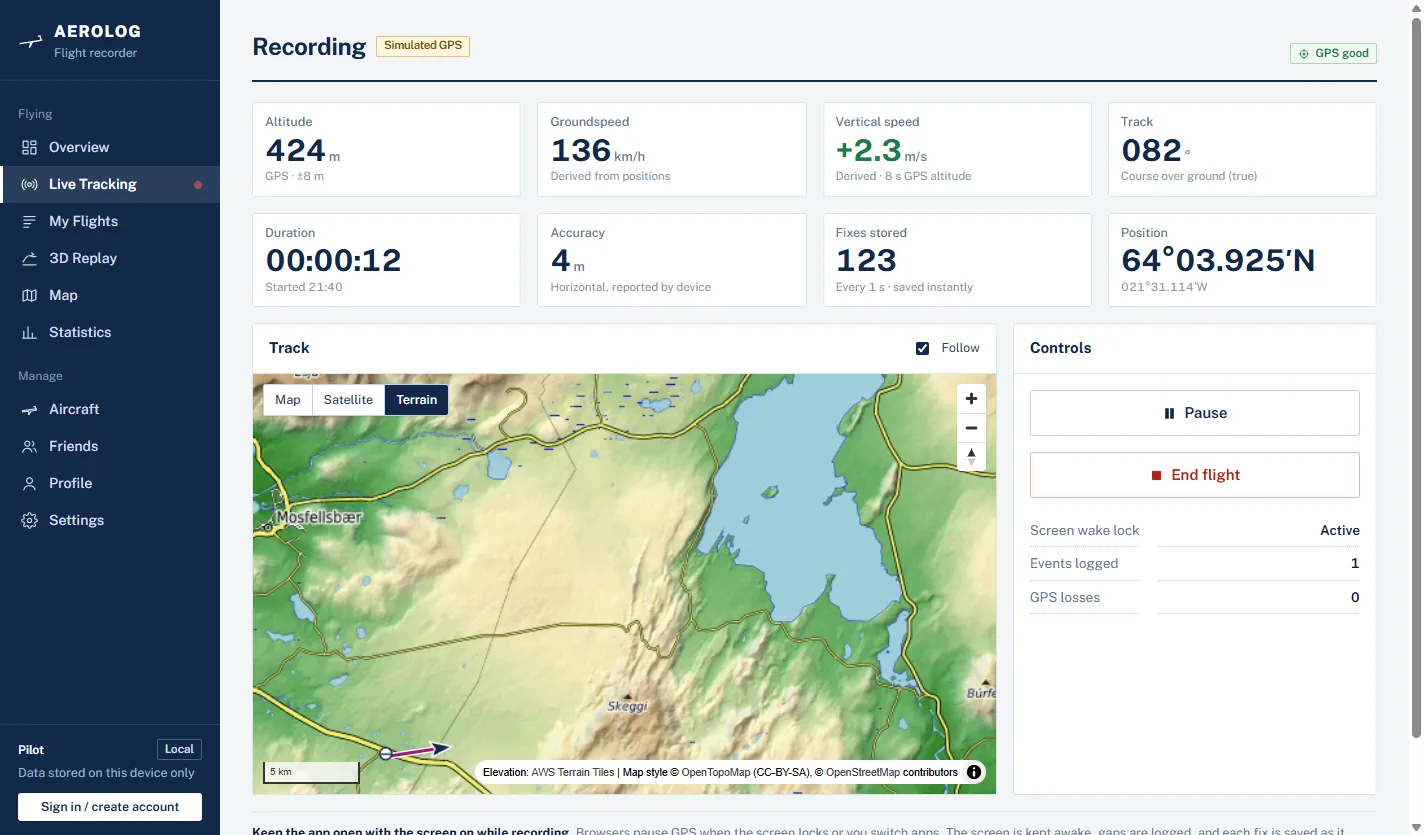
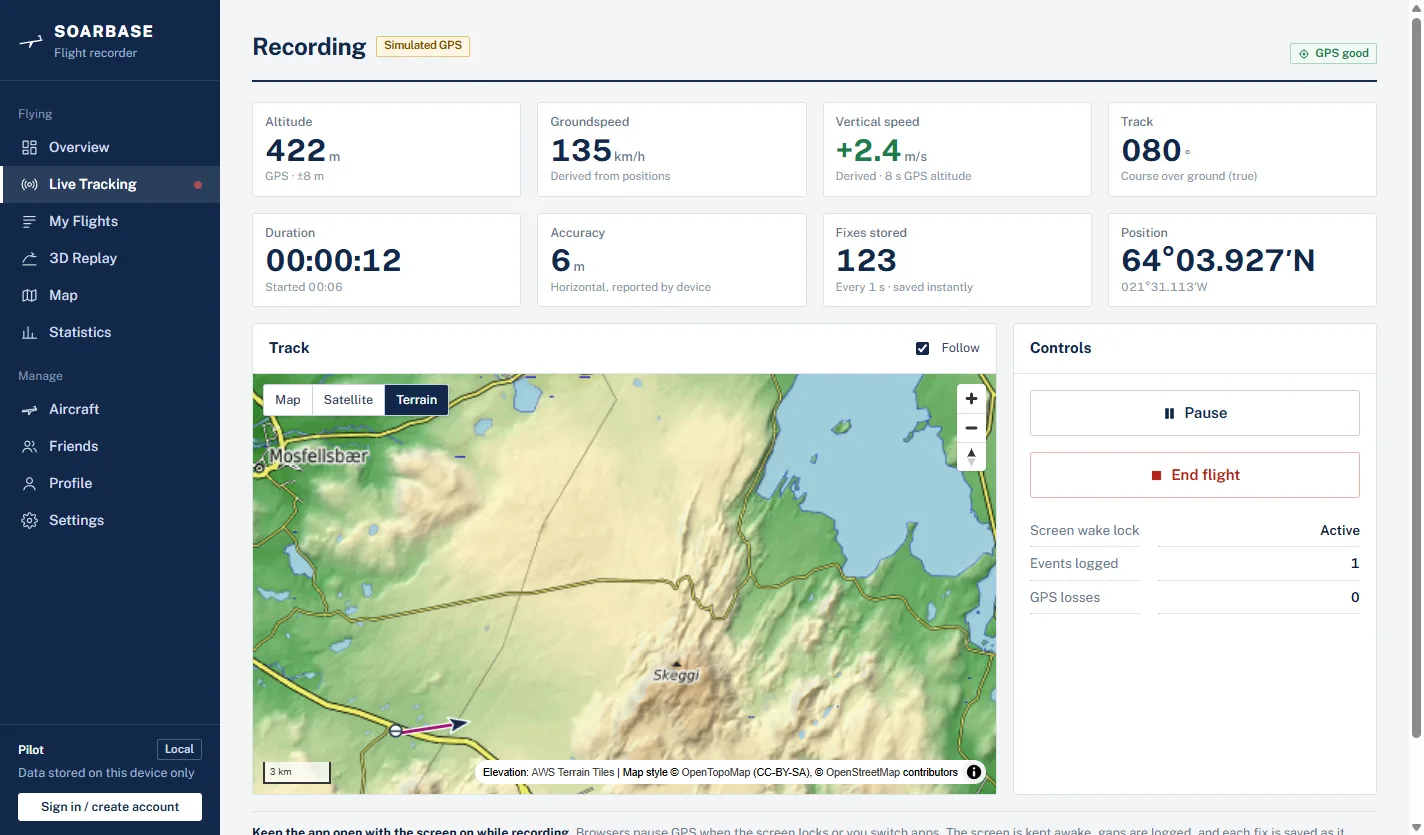
Rename to Soarbase
New name, screenshots, version 0.3.0 and download links.

diff --git a/index.html b/index.html
@@ -4,10 +4,10 @@
   <meta charset="utf-8" />
   <meta name="viewport" content="width=device-width, initial-scale=1, viewport-fit=cover" />
   <meta name="format-detection" content="telephone=no" />
-  <meta name="apple-mobile-web-app-title" content="AEROLOG" />
+  <meta name="apple-mobile-web-app-title" content="Soarbase" />
   <link rel="apple-touch-icon" href="img/icon-180.png" />
-  <title>AEROLOG — flight logbook and 3D replay for glider pilots</title>
-  <meta name="description" content="AEROLOG is a free Windows flight logbook for glider and light-aircraft pilots: import IGC files, analyse thermals and wind, replay flights in 3D over real terrain, and share flights with friends." />
+  <title>Soarbase — flight logbook and 3D replay for glider pilots</title>
+  <meta name="description" content="Soarbase is a free Windows flight logbook for glider and light-aircraft pilots: import IGC files, analyse thermals and wind, replay flights in 3D over real terrain, and share flights with friends." />
   <meta name="theme-color" content="#12284a" />
   <link rel="icon" type="image/png" href="img/icon-64.png" />
   <link rel="preconnect" href="https://fonts.googleapis.com" />
@@ -20,7 +20,7 @@
     <div class="wrap top-row">
       <a class="brand" href="#">
         <svg viewBox="0 0 32 32" aria-hidden="true"><path d="M2 18.5 30 14v1.6l-11.5 2.1-3.4 6.6h-1.7l1.3-6.3L2 20.1z" fill="currentColor"/><path d="M24.5 10.2 27 9.6l1.2 5" stroke="currentColor" stroke-width="1.4" fill="none"/></svg>
-        AEROLOG
+        SOARBASE
       </a>
       <nav aria-label="Main" id="nav">
         <a href="#replay">3D replay</a>
@@ -29,7 +29,7 @@
         <a href="#pricing">Pricing</a>
         <a href="#faq">FAQ</a>
       </nav>
-      <a class="btn btn-light dl top-dl" href="https://github.com/Kmzztt/aerolog/releases/latest/download/AEROLOG-Windows-portable.exe" download>Get AEROLOG</a>
+      <a class="btn btn-light dl top-dl" href="https://github.com/Kmzztt/soarbase/releases/latest/download/Soarbase-Windows-portable.exe" download>Get Soarbase</a>
       <button class="menu-btn" type="button" aria-label="Menu" aria-expanded="false" aria-controls="nav">
         <svg viewBox="0 0 24 24" aria-hidden="true"><path d="M4 7h16M4 12h16M4 17h16" stroke="currentColor" stroke-width="2" stroke-linecap="round"/></svg>
       </button>
@@ -48,19 +48,19 @@
             the whole flight over real terrain. Then share it with the pilots you fly with.
           </p>
           <div class="cta">
-            <a class="btn btn-primary btn-lg dl" href="https://github.com/Kmzztt/aerolog/releases/latest/download/AEROLOG-Windows-portable.exe" download>
+            <a class="btn btn-primary btn-lg dl" href="https://github.com/Kmzztt/soarbase/releases/latest/download/Soarbase-Windows-portable.exe" download>
               <svg viewBox="0 0 24 24" aria-hidden="true"><path d="M12 4v12M7 11l5 5 5-5M4 20h16" fill="none" stroke="currentColor" stroke-width="2" stroke-linecap="round" stroke-linejoin="round"/></svg>
               <span class="dl-label">Download for Windows</span>
             </a>
-            <p class="cta-meta">Free · Version 0.2.1 · 80 MB · Windows 10 and 11 (64-bit) · No installation needed</p>
+            <p class="cta-meta">Free · Version 0.3.0 · 80 MB · Windows 10 and 11 (64-bit) · No installation needed</p>
             <p class="phone-note" hidden>
-              You're on a phone. AEROLOG runs on Windows PCs for now, so send yourself the link and download it on your computer.
+              You're on a phone. Soarbase runs on Windows PCs for now, so send yourself the link and download it on your computer.
               The phone app for recording flights is coming next.
             </p>
           </div>
         </div>
         <figure class="shot shot-hero">
-          <img src="img/replay.webp" width="1424" height="835" alt="AEROLOG 3D replay: a glider circling in a thermal over Icelandic terrain, with altitude, vario and wind instruments and synchronised charts." />
+          <img src="img/replay.webp" width="1424" height="835" alt="Soarbase 3D replay: a glider circling in a thermal over Icelandic terrain, with altitude, vario and wind instruments and synchronised charts." />
         </figure>
       </div>
       <div class="wrap facts">
@@ -167,7 +167,7 @@
           </ol>
           <p class="note">Every flight is private until you share it. Friends can view your shared flights but never edit or delete them, and nobody can find you in pilot search unless you turn that on.</p>
         </div>
-        <figure class="shot"><img src="img/overview.webp" loading="lazy" width="1424" height="835" alt="AEROLOG overview with totals, the latest flight on a map and recent flights." /></figure>
+        <figure class="shot"><img src="img/overview.webp" loading="lazy" width="1424" height="835" alt="Soarbase overview with totals, the latest flight on a map and recent flights." /></figure>
       </div>
     </section>
 
@@ -190,7 +190,7 @@
         <div class="head">
           <p class="kicker">Pricing</p>
           <h2>Free to fly. Premium when you want more.</h2>
-          <p>Everything AEROLOG does today is free, and it stays free. Premium adds features for pilots who fly a lot, fly together, or fly competitively.</p>
+          <p>Everything Soarbase does today is free, and it stays free. Premium adds features for pilots who fly a lot, fly together, or fly competitively.</p>
         </div>
         <div class="plans">
           <article class="plan">
@@ -208,7 +208,7 @@
               <li>Account, friends and flight sharing</li>
               <li>Live recording with GPS</li>
             </ul>
-            <a class="btn btn-primary btn-block dl" href="https://github.com/Kmzztt/aerolog/releases/latest/download/AEROLOG-Windows-portable.exe" download><span class="dl-label">Download for Windows</span></a>
+            <a class="btn btn-primary btn-block dl" href="https://github.com/Kmzztt/soarbase/releases/latest/download/Soarbase-Windows-portable.exe" download><span class="dl-label">Download for Windows</span></a>
           </article>
 
           <article class="plan plan-premium">
@@ -249,7 +249,7 @@
           <h2>Good to know</h2>
         </div>
         <details open>
-          <summary>Is AEROLOG free?</summary>
+          <summary>Is Soarbase free?</summary>
           <p>Yes. Everything in the app today is free, including the account, friends and sharing. Premium will add extra features on top; nothing you use now will move behind it.</p>
         </details>
         <details>
@@ -262,7 +262,7 @@
         </details>
         <details>
           <summary>Windows says “Windows protected your PC”. Is that normal?</summary>
-          <p>Yes. AEROLOG isn't code-signed yet, so Windows SmartScreen warns about it the first time. Click <strong>More info</strong>, then <strong>Run anyway</strong>.</p>
+          <p>Yes. Soarbase isn't code-signed yet, so Windows SmartScreen warns about it the first time. Click <strong>More info</strong>, then <strong>Run anyway</strong>.</p>
         </details>
         <details>
           <summary>Do I need to install anything?</summary>
@@ -278,11 +278,11 @@
         </details>
         <details>
           <summary>Can I use it for badges, records or competitions?</summary>
-          <p>No. AEROLOG is a personal logbook and analysis tool, not a certified instrument or IGC-approved flight recorder. It can read your approved logger's IGC files, but files it records itself are marked as unapproved.</p>
+          <p>No. Soarbase is a personal logbook and analysis tool, not a certified instrument or IGC-approved flight recorder. It can read your approved logger's IGC files, but files it records itself are marked as unapproved.</p>
         </details>
         <details>
           <summary>What about Mac?</summary>
-          <p>AEROLOG currently runs on Windows only.</p>
+          <p>Soarbase currently runs on Windows only.</p>
         </details>
       </div>
     </section>
@@ -292,16 +292,16 @@
       <div class="wrap end-row">
         <div>
           <h2>Bring your last flight home.</h2>
-          <p>Download AEROLOG, import an IGC file, and watch it again in 3D.</p>
+          <p>Download Soarbase, import an IGC file, and watch it again in 3D.</p>
         </div>
-        <a class="btn btn-primary btn-lg dl" href="https://github.com/Kmzztt/aerolog/releases/latest/download/AEROLOG-Windows-portable.exe" download><span class="dl-label">Download for Windows</span></a>
+        <a class="btn btn-primary btn-lg dl" href="https://github.com/Kmzztt/soarbase/releases/latest/download/Soarbase-Windows-portable.exe" download><span class="dl-label">Download for Windows</span></a>
       </div>
     </section>
   </main>
 
   <footer class="foot">
     <div class="wrap foot-row">
-      <span>AEROLOG 0.2.1</span>
+      <span>Soarbase 0.3.0</span>
       <span class="muted">Map data © OpenStreetMap contributors, OpenTopoMap · Imagery © Esri · Elevation: AWS Terrain Tiles · 3D by CesiumJS. Screenshots show a clearly labelled demonstration flight.</span>
     </div>
   </footer>

diff --git a/site.js b/site.js
@@ -1,4 +1,4 @@
-// AEROLOG website: phone menu, phone-aware download buttons, Premium waitlist.
+// Soarbase website: phone menu, phone-aware download buttons, Premium waitlist.
 (() => {
   // ---------------------------------------------------------------- phone menu
   const btn = document.querySelector('.menu-btn');
@@ -29,21 +29,21 @@
         const url = location.href.split('#')[0];
         try {
           if (navigator.share) {
-            await navigator.share({ title: 'AEROLOG for Windows', text: 'Download AEROLOG on my PC', url });
+            await navigator.share({ title: 'Soarbase for Windows', text: 'Download Soarbase on my PC', url });
             return;
           }
           await navigator.clipboard.writeText(url);
           toast('Link copied. Open it on your computer to download.');
         } catch (err) {
           if (err && err.name === 'AbortError') return; // user closed the share sheet
-          toast('Open this page on your Windows computer to download AEROLOG.');
+          toast('Open this page on your Windows computer to download Soarbase.');
         }
       });
     });
   }
 
   // ---------------------------------------------------------------- Premium waitlist
-  // Inserts into the AEROLOG Supabase project. The publishable key is designed to be public;
+  // Inserts into the Soarbase Supabase project. The publishable key is designed to be public;
   // the table only allows anonymous INSERT (no reading), enforced by Row Level Security.
   const SUPABASE_URL = 'https://oektxqatiuzwwpfhiqow.supabase.co';
   const SUPABASE_KEY = 'sb_publishable_Jp7CQxMuRRAZ8G-MAEXTwA_LBfJzPxo';

diff --git a/styles.css b/styles.css
@@ -1,4 +1,4 @@
-/* AEROLOG website — same identity as the app: white paper, navy ink, chart magenta. */
+/* Soarbase website — same identity as the app: white paper, navy ink, chart magenta. */
 :root {
   --navy: #12284a;
   --navy-2: #1d3a66;

diff --git a/README.md b/README.md
@@ -1,8 +1,8 @@
-# AEROLOG
+# Soarbase
 
 Flight logbook and 3D replay for glider and light-aircraft pilots, for Windows.
 
-- Website: https://kmzztt.github.io/aerolog/
-- Download: [latest release](https://github.com/Kmzztt/aerolog/releases/latest)
+- Website: https://kmzztt.github.io/soarbase/
+- Download: [latest release](https://github.com/Kmzztt/soarbase/releases/latest)
 
-This repository hosts the AEROLOG website and release downloads.
+This repository hosts the Soarbase website and release downloads.
